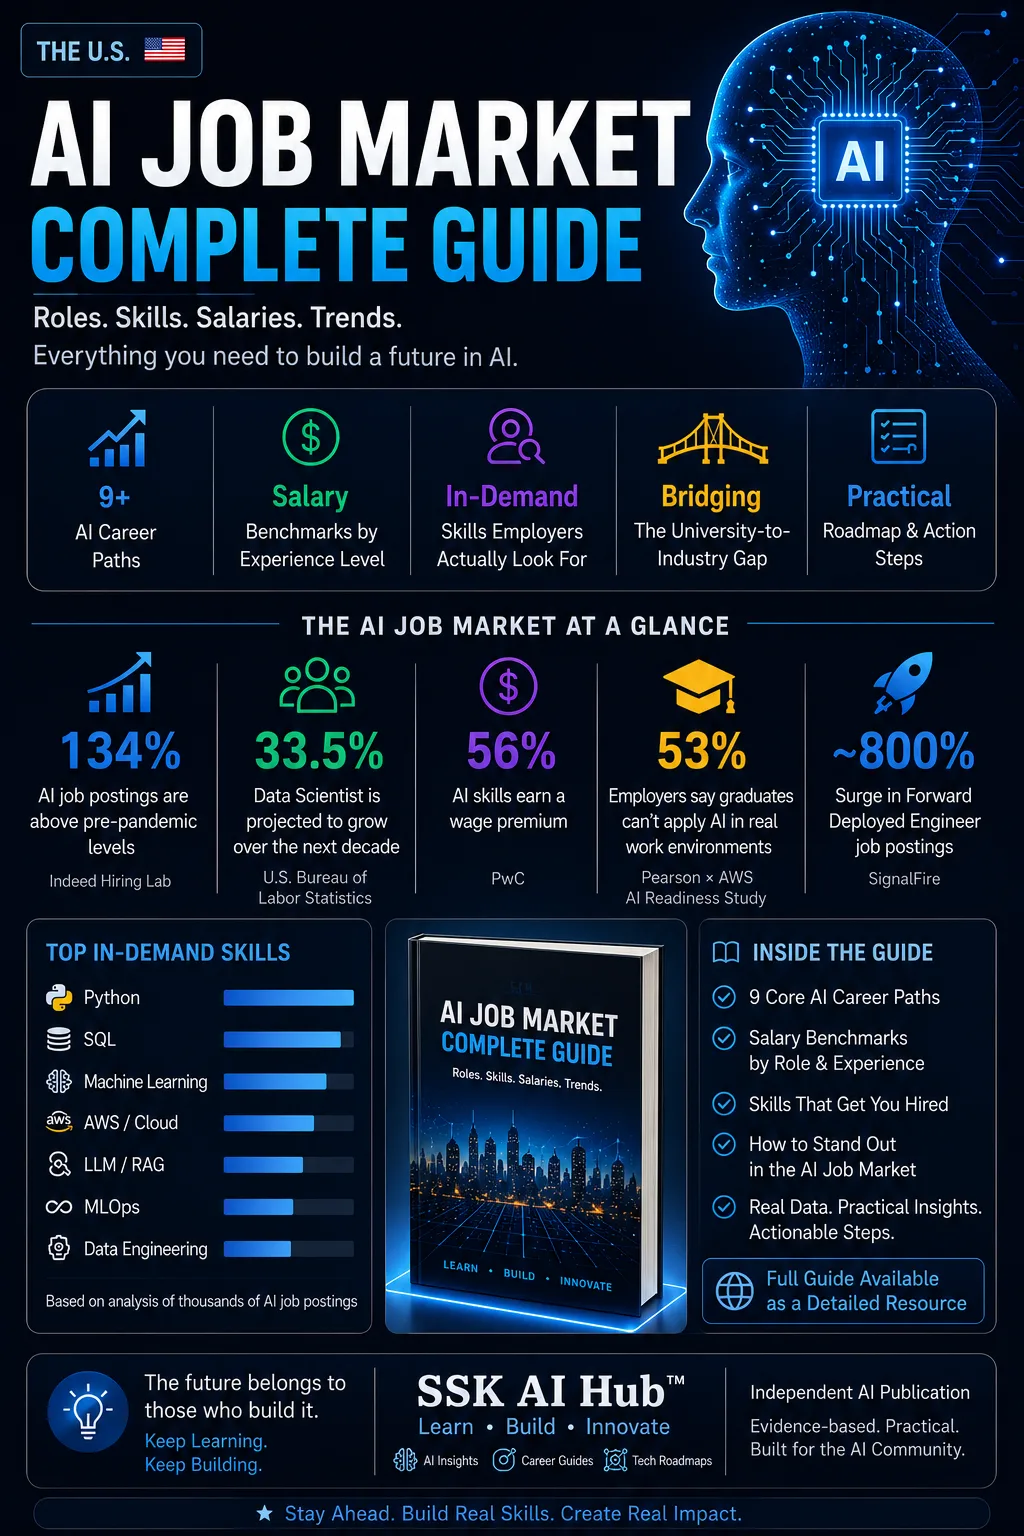
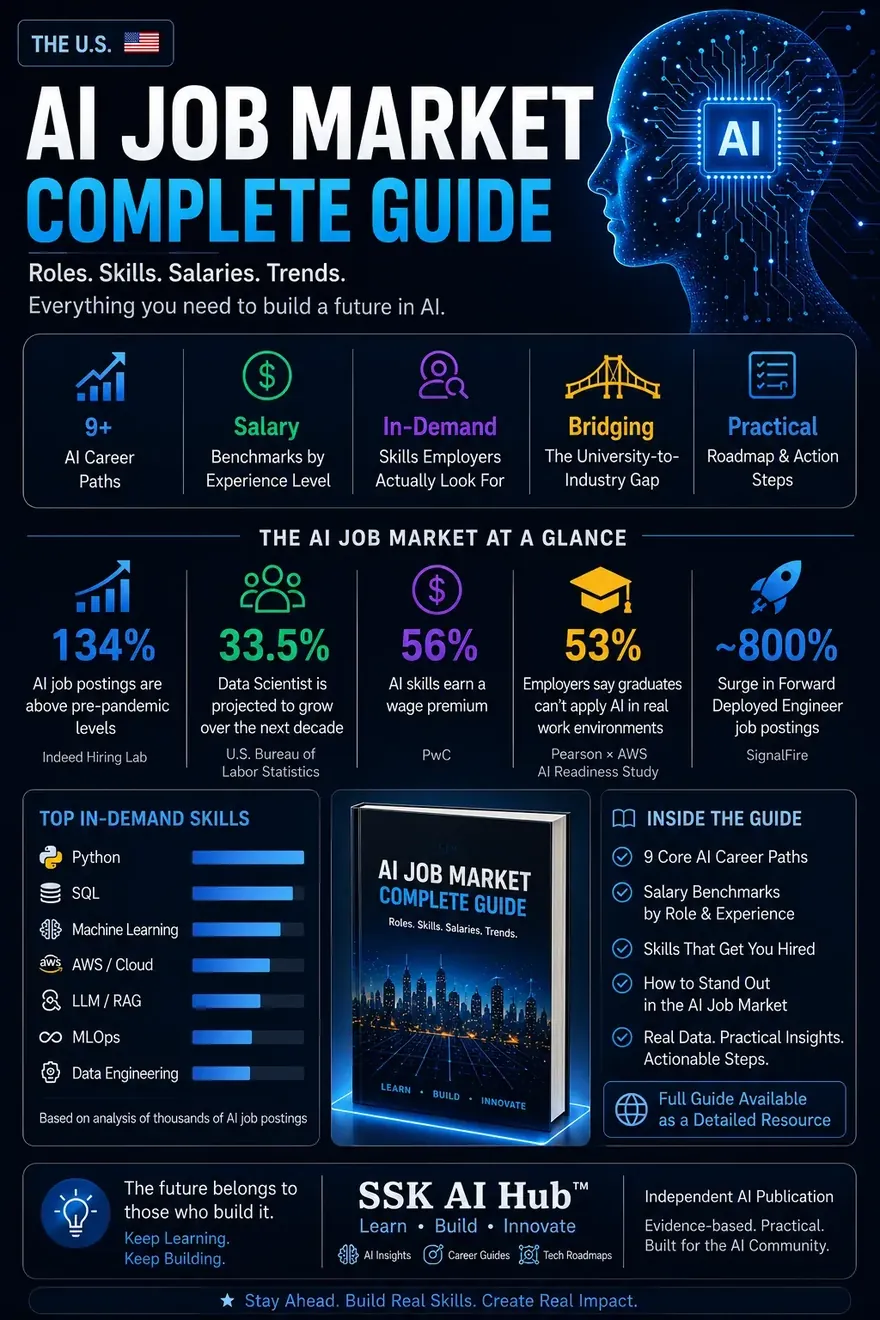
perf(images): convert unoptimized blog covers to WebP, shrink report poster
The five /explore/blog cover images and the contact profile photo were the
only raster images on the site still served as raw JPEG with no WebP variant
and no <picture> fallback - every visitor downloaded the JPEG.

Converted at quality 80 (Pillow, method=6), no resizing - all were already
at or under 1280px:

  blog/grad-cam-flood-detection    216 KB -> 186 KB  -14%
  blog/spatial-context-geoai       189 KB -> 147 KB  -22%
  blog/civil-engineering-to-geoai  188 KB -> 145 KB  -23%
  blog/us-ai-job-market            121 KB ->  72 KB  -41%
  blog/web-scraping-python         104 KB ->  62 KB  -41%
  profile/ravindra-profile          29 KB ->  21 KB  -28%

Also re-encoded ssk-ai-job-market-poster.webp: 188 KB -> 132 KB, resized
1024x1536 -> 880x1320. The card renders it inside `aspect-ratio: 4/5` with
`object-fit: cover` at sidebar width, so 880px is still comfortably 2x and
a third of the source height was being cropped away unseen.

Dropped the ?v=3 cache-buster on the job-market cover - the filename change
supersedes it.

Not touched: the handball images. Those already ship WebP variants behind
<picture>/<source>, so the .jpg files are genuine old-browser fallbacks that
modern browsers never fetch. The crawl saw the JPEGs only because Screaming
Frog requests the <img src> fallback rather than the <source srcset>.

diff --git a/explore/blog.html b/explore/blog.html
@@ -42,7 +42,7 @@
           <article class="blog-entry blog-entry--featured animate-in" style="--delay: 20ms;">
             <a class="blog-entry-card blog-entry-card--visual card card--hover" href="/explore/us-ai-job-market-guide" aria-label="Read The U.S. AI Job Market: A Complete Career Guide">
               <div class="blog-entry-card__media">
-                <img src="/images/blog/us-ai-job-market.jpg?v=3" alt="U.S. AI job market career guide cover" width="1280" height="720" loading="eager" decoding="async" fetchpriority="high">
+                <img src="/images/blog/us-ai-job-market.webp" alt="U.S. AI job market career guide cover" width="1280" height="720" loading="eager" decoding="async" fetchpriority="high">
                 <span class="blog-entry-card__media-pill">Career guide</span>
               </div>
               <div class="blog-entry-card__content">
@@ -83,7 +83,7 @@
           <article class="blog-entry animate-in" style="--delay: 40ms;">
             <a class="blog-entry-card blog-entry-card--visual blog-entry-card--compact card card--hover" href="/explore/web-scraping-python" aria-label="Read Decoding the Web: A Practical Guide to Web Scraping with Python">
               <div class="blog-entry-card__media">
-                <img src="/images/blog/web-scraping-python.jpg" alt="Decoding the Web: web scraping with Python article cover" width="1280" height="720" loading="lazy" decoding="async">
+                <img src="/images/blog/web-scraping-python.webp" alt="Decoding the Web: web scraping with Python article cover" width="1280" height="720" loading="lazy" decoding="async">
                 <span class="blog-entry-card__media-pill">Technical guide</span>
               </div>
               <div class="blog-entry-card__content">
@@ -123,7 +123,7 @@
           <article class="blog-entry animate-in" style="--delay: 60ms;">
             <a class="blog-entry-card blog-entry-card--visual blog-entry-card--compact card card--hover" href="/explore/spatial-context-geoai" aria-label="Read Why spatial context changes model design">
               <div class="blog-entry-card__media">
-                <img src="/images/blog/spatial-context-geoai.jpg" alt="Why spatial context changes model design article cover" width="1280" height="720" loading="lazy" decoding="async">
+                <img src="/images/blog/spatial-context-geoai.webp" alt="Why spatial context changes model design article cover" width="1280" height="720" loading="lazy" decoding="async">
                 <span class="blog-entry-card__media-pill">Research note</span>
               </div>
               <div class="blog-entry-card__content">
@@ -155,7 +155,7 @@
           <article class="blog-entry animate-in" style="--delay: 120ms;">
             <a class="blog-entry-card blog-entry-card--visual blog-entry-card--compact card card--hover" href="/explore/grad-cam-flood-detection" aria-label="Read Grad-CAM for interpretable flood detection">
               <div class="blog-entry-card__media">
-                <img src="/images/blog/grad-cam-flood-detection.jpg" alt="Grad-CAM for interpretable flood detection article cover" width="1280" height="720" loading="lazy" decoding="async">
+                <img src="/images/blog/grad-cam-flood-detection.webp" alt="Grad-CAM for interpretable flood detection article cover" width="1280" height="720" loading="lazy" decoding="async">
                 <span class="blog-entry-card__media-pill">Model note</span>
               </div>
               <div class="blog-entry-card__content">
@@ -187,7 +187,7 @@
           <article class="blog-entry animate-in" style="--delay: 180ms;">
             <a class="blog-entry-card blog-entry-card--visual blog-entry-card--compact card card--hover" href="/explore/civil-engineering-to-geoai" aria-label="Read From civil engineering to GeoAI">
               <div class="blog-entry-card__media">
-                <img src="/images/blog/civil-engineering-to-geoai.jpg" alt="From civil engineering to GeoAI article cover" width="1280" height="720" loading="lazy" decoding="async">
+                <img src="/images/blog/civil-engineering-to-geoai.webp" alt="From civil engineering to GeoAI article cover" width="1280" height="720" loading="lazy" decoding="async">
                 <span class="blog-entry-card__media-pill">Field note</span>
               </div>
               <div class="blog-entry-card__content">

diff --git a/contact.html b/contact.html
@@ -27,7 +27,7 @@
         <div class="container contact-layout">
           <div class="contact-copy animate-in" style="--delay: 0ms;">
             <figure class="contact-profile-photo" aria-label="Ravindra SSK profile photo">
-              <img src="/images/profile/ravindra-profile.jpg" alt="Ravindra SSK" width="460" height="460" loading="eager" decoding="async">
+              <img src="/images/profile/ravindra-profile.webp" alt="Ravindra SSK" width="460" height="460" loading="eager" decoding="async">
             </figure>
             <span class="eyebrow">Contact</span>
             <h1 class="page-title">Get in touch</h1>
